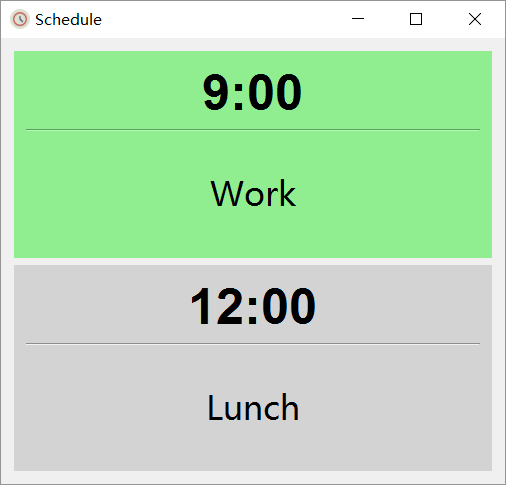
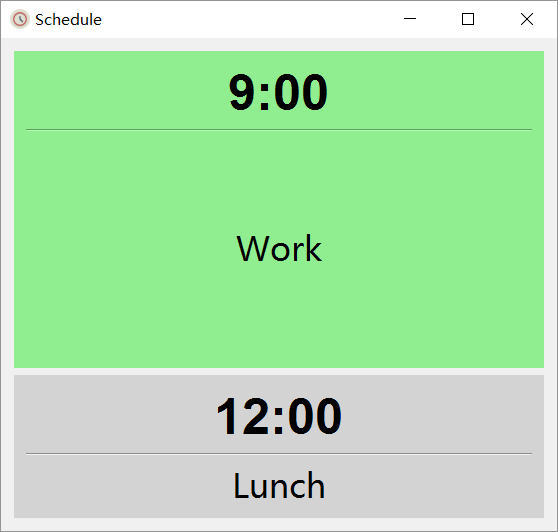
ui modification

diff --git a/ui_main.py b/ui_main.py
@@ -11,10 +11,15 @@ from PyQt5 import QtCore, QtGui, QtWidgets
 class Ui_Form(object):
     def setupUi(self, Form):
         Form.setObjectName("Form")
-        Form.resize(504, 446)
+        Form.resize(556, 493)
         self.verticalLayout = QtWidgets.QVBoxLayout(Form)
         self.verticalLayout.setObjectName("verticalLayout")
         self.frameLast = QtWidgets.QFrame(Form)
+        sizePolicy = QtWidgets.QSizePolicy(QtWidgets.QSizePolicy.Preferred, QtWidgets.QSizePolicy.Expanding)
+        sizePolicy.setHorizontalStretch(0)
+        sizePolicy.setVerticalStretch(0)
+        sizePolicy.setHeightForWidth(self.frameLast.sizePolicy().hasHeightForWidth())
+        self.frameLast.setSizePolicy(sizePolicy)
         self.frameLast.setStyleSheet("background:lightgreen")
         self.frameLast.setFrameShape(QtWidgets.QFrame.StyledPanel)
         self.frameLast.setFrameShadow(QtWidgets.QFrame.Raised)
@@ -56,6 +61,11 @@ class Ui_Form(object):
         self.verticalLayout_3.addWidget(self.labelLast)
         self.verticalLayout.addWidget(self.frameLast)
         self.frameNext = QtWidgets.QFrame(Form)
+        sizePolicy = QtWidgets.QSizePolicy(QtWidgets.QSizePolicy.Preferred, QtWidgets.QSizePolicy.Preferred)
+        sizePolicy.setHorizontalStretch(0)
+        sizePolicy.setVerticalStretch(0)
+        sizePolicy.setHeightForWidth(self.frameNext.sizePolicy().hasHeightForWidth())
+        self.frameNext.setSizePolicy(sizePolicy)
         self.frameNext.setStyleSheet("background:lightgrey")
         self.frameNext.setFrameShape(QtWidgets.QFrame.StyledPanel)
         self.frameNext.setFrameShadow(QtWidgets.QFrame.Raised)
@@ -86,6 +96,11 @@ class Ui_Form(object):
         self.line.setObjectName("line")
         self.verticalLayout_2.addWidget(self.line)
         self.labelNext = QtWidgets.QLabel(self.frameNext)
+        sizePolicy = QtWidgets.QSizePolicy(QtWidgets.QSizePolicy.Preferred, QtWidgets.QSizePolicy.Preferred)
+        sizePolicy.setHorizontalStretch(0)
+        sizePolicy.setVerticalStretch(0)
+        sizePolicy.setHeightForWidth(self.labelNext.sizePolicy().hasHeightForWidth())
+        self.labelNext.setSizePolicy(sizePolicy)
         font = QtGui.QFont()
         font.setFamily("微软雅黑")
         font.setPointSize(20)
